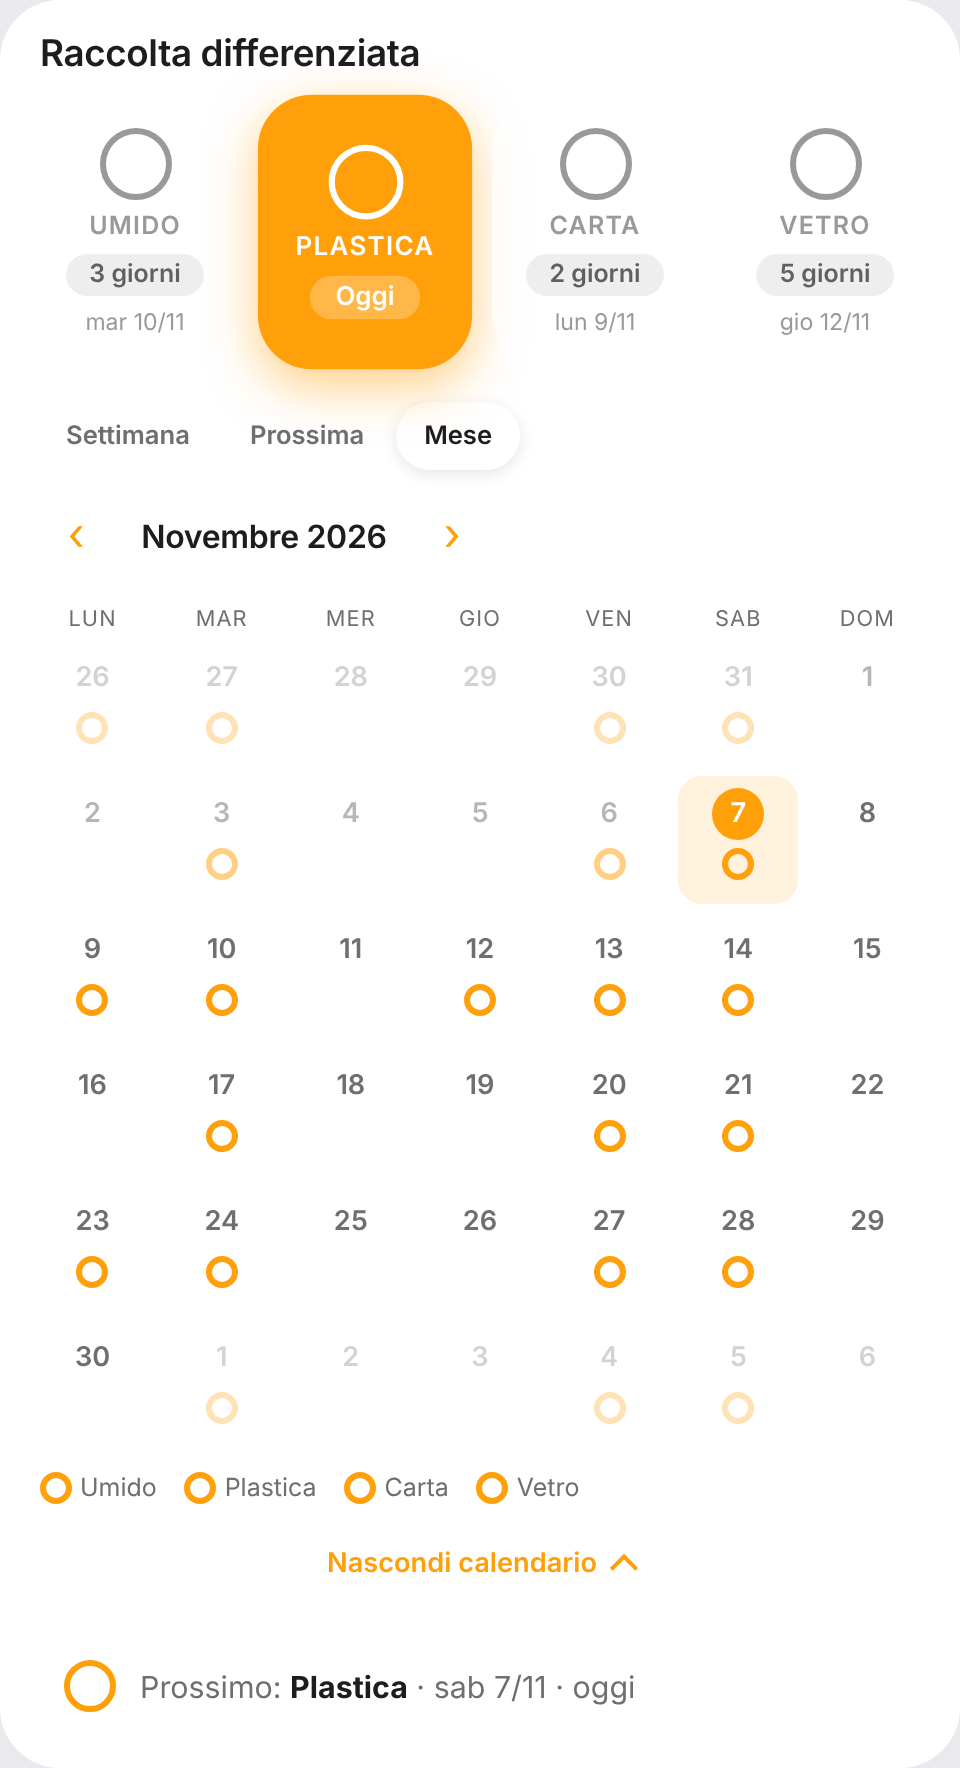
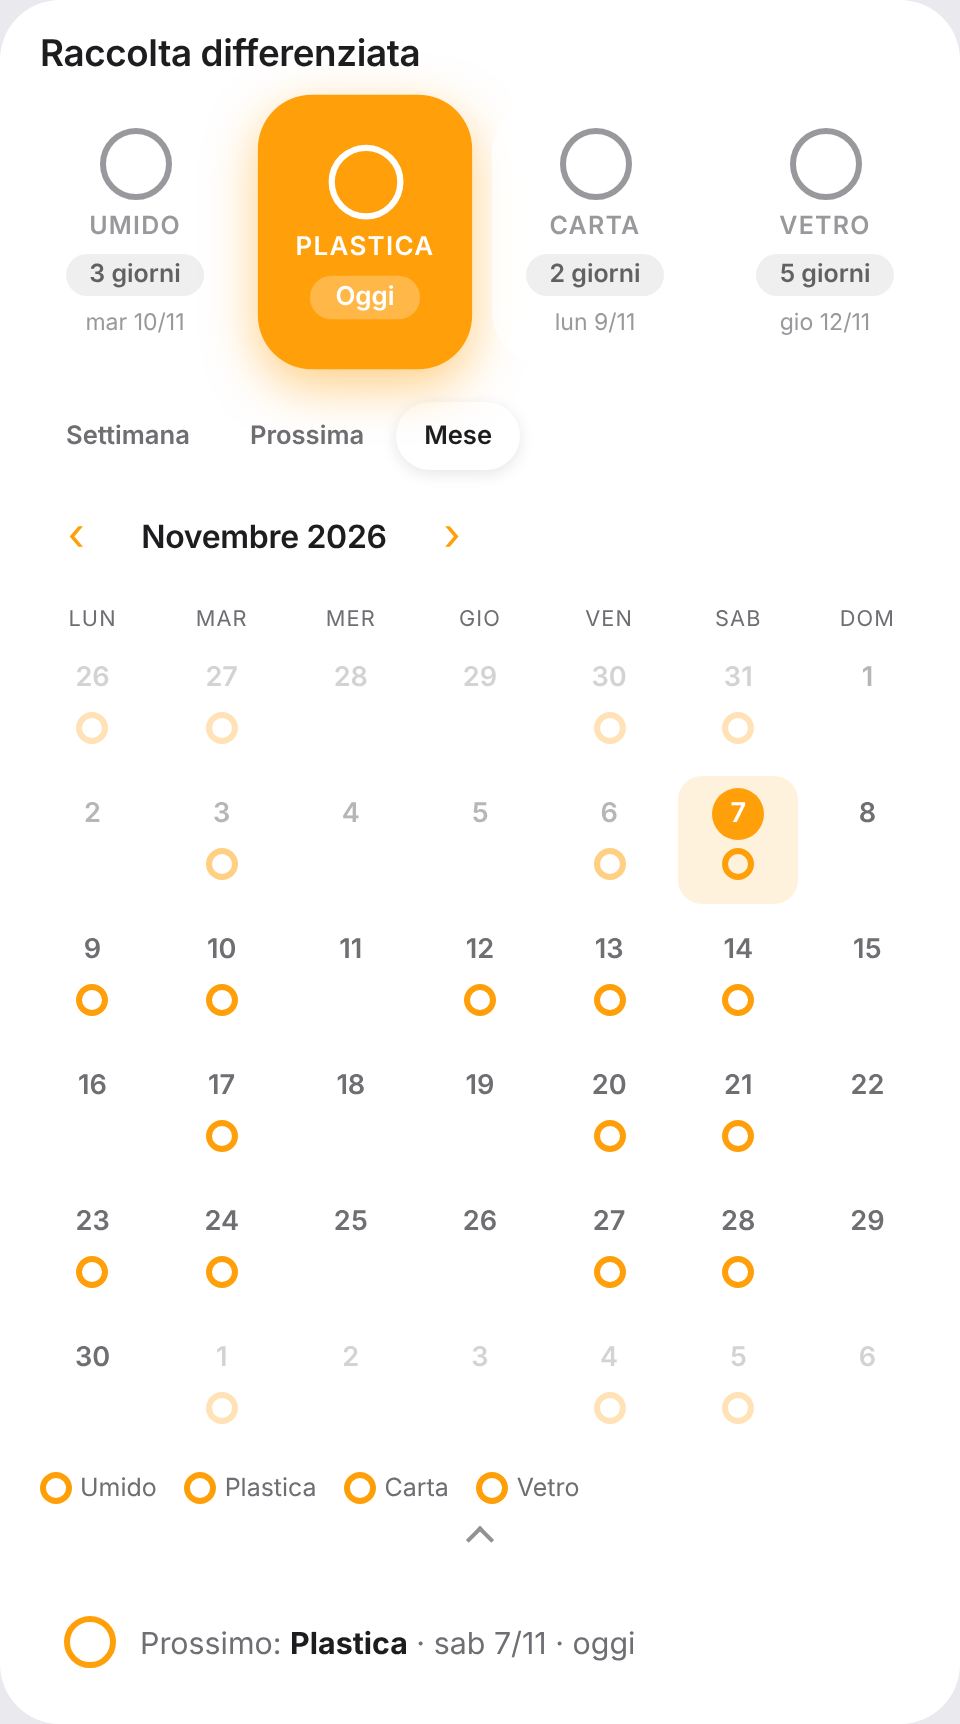
Pulsante di espansione discreto: solo un piccolo chevron
Claude-Session: https://claude.ai/code/session_01BPWojQZg7AGnjhhBiETp5T

diff --git a/custom_components/garbage_view/frontend/garbage-view-card.js b/custom_components/garbage_view/frontend/garbage-view-card.js
@@ -243,17 +243,18 @@ const STYLES = `
   .collapse.open { grid-template-rows: 1fr; opacity: 1; visibility: visible; transition-delay: 0s; }
   .collapse > .inner { overflow: hidden; min-height: 0; padding: 4px; margin: -4px; }
 
-  /* ---- Pulsante espandi / comprimi ---- */
+  /* ---- Pulsante espandi / comprimi: solo un piccolo chevron, discreto ---- */
   .expander {
     all: unset; box-sizing: border-box; cursor: pointer;
-    display: flex; align-items: center; justify-content: center; gap: 8px;
-    width: 100%; min-height: 44px; margin-top: 8px; border-radius: 12px;
-    font-size: .85rem; font-weight: 600; color: var(--gv-accent);
-    transition: background var(--gv-anim-duration) ease, transform var(--gv-anim-duration) ease;
+    display: flex; align-items: center; justify-content: center;
+    width: 44px; height: 28px; margin: 2px auto 0; border-radius: 999px;
+    color: var(--gv-text-secondary); opacity: .75;
+    transition: background var(--gv-anim-duration) ease, opacity var(--gv-anim-duration) ease,
+                transform var(--gv-anim-duration) ease;
   }
-  .expander:hover { background: var(--gv-tile-bg); }
-  .expander:active { transform: scale(.97); }
-  .expander:focus-visible { outline: 3px solid var(--gv-accent); outline-offset: 1px; }
+  .expander:hover { background: var(--gv-tile-bg); opacity: 1; }
+  .expander:active { transform: scale(.92); }
+  .expander:focus-visible { outline: 3px solid var(--gv-accent); outline-offset: 1px; opacity: 1; }
   .expander .chev {
     width: 8px; height: 8px; margin-top: -3px;
     border-right: 2px solid currentColor; border-bottom: 2px solid currentColor;
@@ -669,10 +670,11 @@ class GarbageViewCard extends HTMLElement {
     b.dataset.key = "expander";
     b.setAttribute("aria-controls", "gv-calendar");
     b.setAttribute("aria-expanded", String(expanded));
-    const label = el("span", null, expanded ? t.collapse : t.expand);
+    b.setAttribute("aria-label", expanded ? t.collapse : t.expand);
+    b.title = expanded ? t.collapse : t.expand;
     const chev = el("span", "chev");
     chev.setAttribute("aria-hidden", "true");
-    b.append(label, chev);
+    b.append(chev);
     b.addEventListener("click", () => {
       this._expanded = b.getAttribute("aria-expanded") !== "true";
       this._selected = null;
@@ -680,7 +682,9 @@ class GarbageViewCard extends HTMLElement {
       for (const d of this._root.querySelectorAll(".day, .cal-day")) d.setAttribute("aria-pressed", "false");
       for (const d of this._root.querySelectorAll(".detail")) d.replaceChildren();
       b.setAttribute("aria-expanded", String(this._expanded));
-      label.textContent = this._expanded ? t.collapse : t.expand;
+      const text = this._expanded ? t.collapse : t.expand;
+      b.setAttribute("aria-label", text);
+      b.title = text;
       if (this._expanded && !this._calendar.firstChild.firstChild) this._fillCalendar();
       // Un frame dopo l'inserimento, così il browser parte dall'altezza 0 e anima.
       requestAnimationFrame(() => {

diff --git a/README.md b/README.md
@@ -13,7 +13,7 @@ Integrazione per Home Assistant, installabile da HACS, che mostra **cosa buttare
 ### Funzioni
 - Tessere per ogni tipo di rifiuto, con badge «Oggi / Domani / N giorni» e data.
 - Striscia di 7 o 14 giorni e barra riepilogo «Prossimo».
-- **Calendario grande**: settimana, prossima settimana o mese, con frecce avanti/indietro e le icone dei rifiuti da portare fuori accanto a ogni giorno. Si apre **sul posto** dalla vista compatta: tocca «Mostra calendario» sotto la striscia e il calendario si espande con un'animazione, tocca di nuovo per richiuderlo.
+- **Calendario grande**: settimana, prossima settimana o mese, con frecce avanti/indietro e le icone dei rifiuti da portare fuori accanto a ogni giorno. Si apre **sul posto** dalla vista compatta: tocca il piccolo chevron sotto la striscia (la card compatta resta com'era: tessere e striscia dei giorni) e il calendario si espande con un'animazione, tocca di nuovo per richiuderlo.
 - Ricorrenze: settimanale, ogni N settimane, n-esimo giorno del mese (anche «ultimo»), giorno del mese.
 - Tipi gestiti dall'interfaccia (nome, icona, regola), senza YAML.
 - Sensore `sensor.garbage_view_schedule` ed entità `calendar.garbage_view` per le automazioni.
@@ -39,7 +39,7 @@ style: apple                           # apple | homekit
 days: 14                               # 7 | 14
 start_expanded: false                  # true = calendario già aperto (sostituisce `view: calendar`)
 calendar_mode: week                    # week | next_week | month (periodo iniziale)
-show_view_toggle: true                 # pulsante «Mostra/Nascondi calendario»
+show_view_toggle: true                 # piccolo chevron per espandere il calendario
 show_summary: true                     # barra «Prossimo»
 css: "--gv-radius: 18px; --gv-accent: #34c759"   # opzionale
 ```
@@ -56,7 +56,7 @@ Da **Configura → Notifiche sul telefono** puoi attivare una notifica push all'
 - Servizio `garbage_view.send_test_notification` per provarla subito.
 
 ### Calendario grande
-Toccando **Mostra calendario** (o con `start_expanded: true`; la vecchia `view: calendar` funziona ancora) la card espande sul posto una griglia lunedì→domenica con le icone dei rifiuti in ogni giorno. **Settimana / Prossima / Mese** scelgono il periodo, le frecce ‹ › navigano (anche nei mesi passati). Oggi è evidenziato; toccando un giorno vedi i nomi, e una legenda spiega le icone. Le ricorrenze sono calcolate nella card dalle regole esposte dal sensore, quindi non serve alcuna configurazione in più.
+Toccando il chevron (o con `start_expanded: true`; la vecchia `view: calendar` funziona ancora) la card espande sul posto una griglia lunedì→domenica con le icone dei rifiuti in ogni giorno. **Settimana / Prossima / Mese** scelgono il periodo, le frecce ‹ › navigano (anche nei mesi passati). Oggi è evidenziato; toccando un giorno vedi i nomi, e una legenda spiega le icone. Le ricorrenze sono calcolate nella card dalle regole esposte dal sensore, quindi non serve alcuna configurazione in più.
 
 | Mese · chiaro | Mese · scuro |
 |---|---|
@@ -111,7 +111,7 @@ A HACS-installable Home Assistant integration that shows **what to put out today
 ### Features
 - One tile per waste type with a "Today / Tomorrow / N days" badge and date.
 - 7- or 14-day strip and a "Next" summary bar.
-- **Large calendar**: week, next week or month with previous/next arrows and small icons showing which waste goes out each day. It opens **in place** from the compact view: tap “Show calendar” under the strip and it expands with a smooth animation; tap again to collapse.
+- **Large calendar**: week, next week or month with previous/next arrows and small icons showing which waste goes out each day. It opens **in place** from the compact view: tap the small chevron under the strip (the compact card looks exactly as before: tiles and day strip) and it expands with a smooth animation; tap again to collapse.
 - Recurrences: weekly, every N weeks, nth weekday of the month (including "last"), day of month.
 - Waste types managed from the UI (name, icon, rule), no YAML needed.
 - `sensor.garbage_view_schedule` and `calendar.garbage_view` entities for automations.
@@ -137,7 +137,7 @@ style: apple                           # apple | homekit
 days: 14                               # 7 | 14
 start_expanded: false                  # true = calendar already open (replaces `view: calendar`)
 calendar_mode: week                    # week | next_week | month (initial period)
-show_view_toggle: true                 # “Show/Hide calendar” button
+show_view_toggle: true                 # small chevron to expand the calendar
 show_summary: true                     # "Next" bar
 css: "--gv-radius: 18px; --gv-accent: #34c759"   # optional
 ```
@@ -154,7 +154,7 @@ From **Configure → Mobile notifications** you can enable a push notification t
 - Service `garbage_view.send_test_notification` to try it right away.
 
 ### Large calendar
-By tapping **Show calendar** (or with `start_expanded: true`; the old `view: calendar` still works) the card expands in place to show a Monday→Sunday grid with the waste icons on each day. **Week / Next / Month** pick the period and the ‹ › arrows navigate (past months included). Today is highlighted; tap a day to see names, and a legend explains the icons. Recurrences are computed in the card from the rules exposed by the sensor, so no extra setup is needed.
+By tapping the chevron (or with `start_expanded: true`; the old `view: calendar` still works) the card expands in place to show a Monday→Sunday grid with the waste icons on each day. **Week / Next / Month** pick the period and the ‹ › arrows navigate (past months included). Today is highlighted; tap a day to see names, and a legend explains the icons. Recurrences are computed in the card from the rules exposed by the sensor, so no extra setup is needed.
 
 See the screenshots below (`docs/screenshots/calendario-*.png`).
 

diff --git a/CHANGELOG.md b/CHANGELOG.md
@@ -5,7 +5,7 @@ Formato basato su [Keep a Changelog](https://keepachangelog.com/it/1.1.0/). / Fo
 ## [0.2.1] - 2026-11-07
 
 ### Cambiato / Changed
-- **Il calendario si espande dalla card compatta**, sul posto: niente più vista separata. Sotto la striscia dei giorni c'è il pulsante «Mostra calendario» (chevron, `aria-expanded`, tastiera): la striscia si chiude e il calendario si apre con un'animazione di altezza; ricliccando si torna alla vista compatta. Tessere, titolo e barra «Prossimo» restano sempre visibili. Con `prefers-reduced-motion` il passaggio è istantaneo. Il calendario viene costruito solo alla prima apertura.
+- **Il calendario si espande dalla card compatta**, sul posto: niente più vista separata. Sotto la striscia dei giorni c'è solo un piccolo chevron discreto (`aria-label`, `aria-expanded`, tastiera); la card compatta resta com'era: la striscia si chiude e il calendario si apre con un'animazione di altezza; ricliccando si torna alla vista compatta. Tessere, titolo e barra «Prossimo» restano sempre visibili. Con `prefers-reduced-motion` il passaggio è istantaneo. Il calendario viene costruito solo alla prima apertura.
 - Nuova opzione `start_expanded` (calendario già aperto). La vecchia `view: calendar` continua a funzionare come `start_expanded: true`; l'editor visuale ora scrive `start_expanded`. `show_view_toggle: false` nasconde il pulsante.
 - Test vitest/Playwright e screenshot aggiornati.
 
